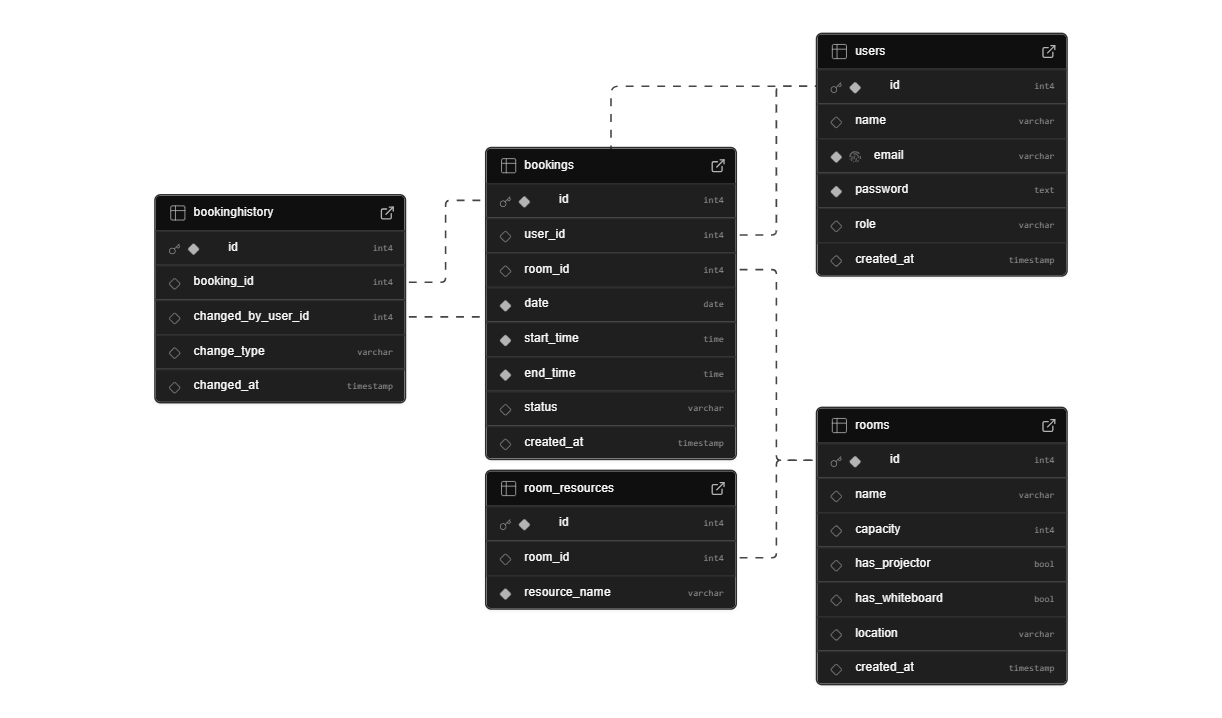
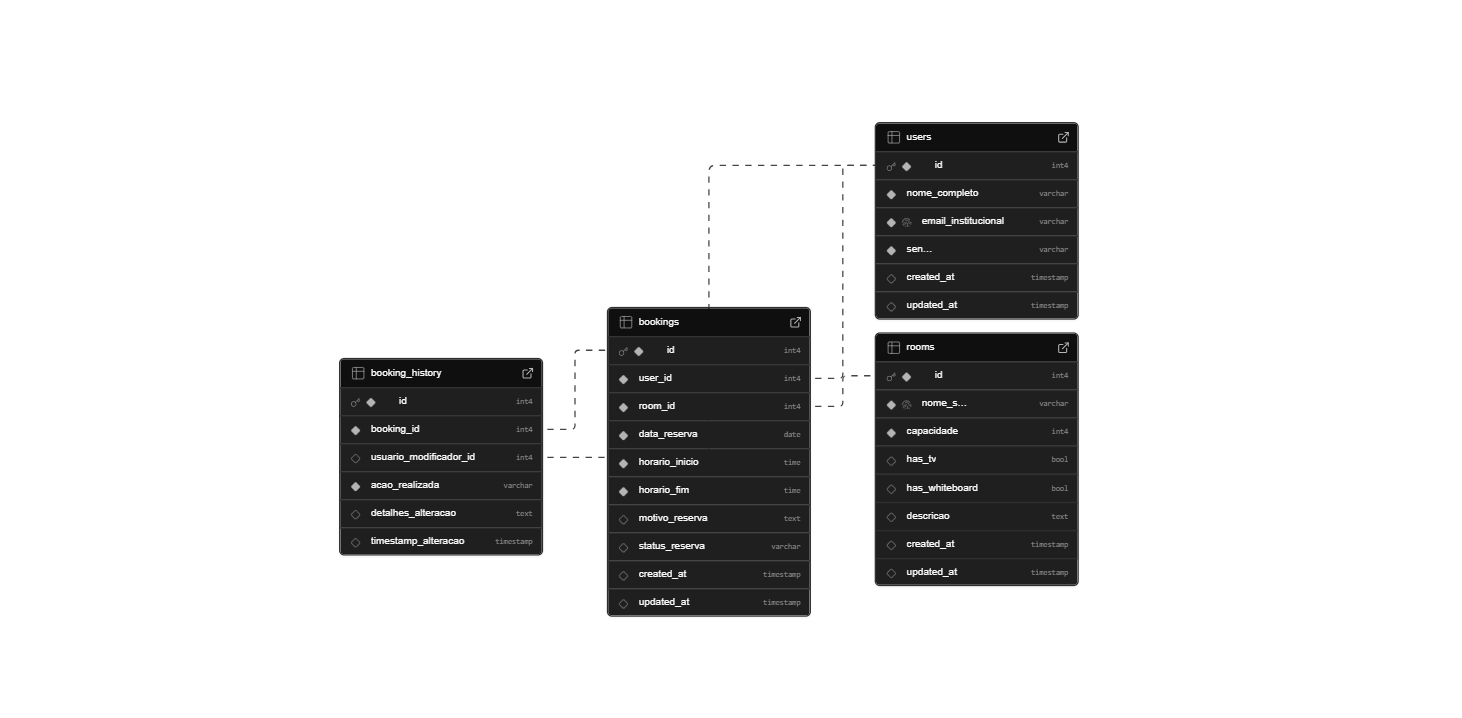
add banco de dados

diff --git a/WAD.md b/WAD.md
@@ -82,88 +82,127 @@ A User Story é suficientemente pequena para ser entregue em um único ciclo de 
 
 ### 3.1. Modelagem do banco de dados:
 
-&nbsp;&nbsp;&nbsp;&nbsp;O sistema de reservas foi modelado considerando os principais atores (usuários) e as funcionalidades centrais (reserva de salas com recursos). A modelagem contempla 5 entidades principais:
+&nbsp;&nbsp;&nbsp;&nbsp; O sistema de reservas de salas foi modelado para atender às necessidades operacionais e acadêmicas da comunidade do INTELI. A modelagem considera três atores principais: os usuários (que realizam reservas), as salas (disponíveis com recursos variados) e o histórico de alterações (para rastreabilidade). O foco do projeto é garantir integridade, rastreabilidade e evitar conflitos de horário entre as reservas.
 
-- Users (Usuários que interagem com o sistema);
+O modelo contempla quatro entidades principais:
 
-- Rooms (Salas disponíveis para reserva);
+- Users (Usuários que realizam e alteram reservas);
 
-- Bookings (Reservas realizadas);
+- Rooms (Salas disponíveis para uso, com descrição e recursos embutidos por atributos booleanos);
 
-- Room_Resources (Recursos adicionais presentes nas salas);
+- Bookings (Reservas realizadas com data, horário, motivo e status da reserva);
 
-- BookingHistory (Histórico de alterações das reservas - opcional para escalabilidade).
+- Booking_History (Histórico de alterações em reservas, incluindo o usuário que modificou, ação e data).
 
 **Modelo Lógico (Relacional):**
 
 &nbsp;&nbsp;&nbsp;&nbsp;As relações entre as entidades estão representadas da seguinte forma:
 
 ``` text
-[Users] -----< [Bookings] >----- [Rooms] -----< [Room_Resources]
-                       |
-               [BookingHistory]
-
+[Users] -----< [Bookings] >----- [Rooms]
+      \             |
+       \            v
+        --> [Booking_History]
 ```
+
 
 - Um usuário pode fazer várias reservas;
 
-- Uma sala pode ter várias reservas e múltiplos recursos;
+- Uma sala pode ser reservada por vários usuários, em diferentes datas e horários;
 
-- Cada reserva pode ter alterações registradas no histórico.
+- Cada reserva pode registrar alterações realizadas por outros usuários (ex: administradores ou responsáveis), garantindo rastreabilidade no histórico;
+
+- Os atributos booleanos das salas substituem a necessidade de uma tabela separada de recursos, simplificando a modelagem.
+
+&nbsp;&nbsp;&nbsp;&nbsp;A integridade referencial é garantida com o uso de chaves estrangeiras (FK) conectando usuários, salas e reservas. Além disso, foram criadas constraints de exclusividade e verificação para evitar reservas simultâneas e horários inválidos, além de triggers para atualização automática de timestamps.
 
 **Modelo Físico (DDL - Script SQL):**
 
-&nbsp;&nbsp;&nbsp;&nbsp;Abaixo está o schema completo do banco de dados, pronto para ser executado no Supabase ou em qualquer banco PostgreSQL:
+&nbsp;&nbsp;&nbsp;&nbsp;Abaixo está o esquema completo do banco de dados, pronto para ser executado no Supabase ou em qualquer banco PostgreSQL:
 
 ``` sql
--- 1. Tabela de Usuários
-CREATE TABLE Users (
-    id SERIAL PRIMARY KEY,
-    name VARCHAR(100),
-    email VARCHAR(100) UNIQUE NOT NULL,
-    password TEXT NOT NULL, -- Armazenar preferencialmente como hash
-    role VARCHAR(20) DEFAULT 'student',
-    created_at TIMESTAMP DEFAULT CURRENT_TIMESTAMP
+-- 1. TABELA: users
+CREATE TABLE IF NOT EXISTS users (
+    id SERIAL PRIMARY KEY, -- PK
+    nome_completo VARCHAR(255) NOT NULL,
+    email_institucional VARCHAR(255) NOT NULL UNIQUE,
+    senha VARCHAR(255) NOT NULL,
+    created_at TIMESTAMP DEFAULT CURRENT_TIMESTAMP,
+    updated_at TIMESTAMP DEFAULT CURRENT_TIMESTAMP
 );
 
--- 2. Tabela de Salas
-CREATE TABLE Rooms (
-    id SERIAL PRIMARY KEY,
-    name VARCHAR(50),
-    capacity INTEGER,
-    has_projector BOOLEAN DEFAULT false,
-    has_whiteboard BOOLEAN DEFAULT false,
-    location VARCHAR(100),
-    created_at TIMESTAMP DEFAULT CURRENT_TIMESTAMP
+-- 2. TABELA: rooms
+CREATE TABLE IF NOT EXISTS rooms (
+    id SERIAL PRIMARY KEY, -- PK
+    nome_sala VARCHAR(100) NOT NULL UNIQUE,
+    capacidade INTEGER NOT NULL CHECK (capacidade > 0),
+    has_tv BOOLEAN DEFAULT FALSE,
+    has_whiteboard BOOLEAN DEFAULT FALSE,
+    descricao TEXT,
+    created_at TIMESTAMP DEFAULT CURRENT_TIMESTAMP,
+    updated_at TIMESTAMP DEFAULT CURRENT_TIMESTAMP
 );
 
--- 3. Tabela de Reservas
-CREATE TABLE Bookings (
-    id SERIAL PRIMARY KEY,
-    user_id INTEGER REFERENCES Users(id) ON DELETE CASCADE,
-    room_id INTEGER REFERENCES Rooms(id) ON DELETE CASCADE,
-    date DATE NOT NULL,
-    start_time TIME NOT NULL,
-    end_time TIME NOT NULL,
-    status VARCHAR(20) DEFAULT 'ativa',
-    created_at TIMESTAMP DEFAULT CURRENT_TIMESTAMP
+-- 3. TABELA: bookings
+CREATE TABLE IF NOT EXISTS bookings (
+    id SERIAL PRIMARY KEY, -- PK
+    user_id INTEGER NOT NULL, -- FK → users(id)
+    room_id INTEGER NOT NULL, -- FK → rooms(id)
+    data_reserva DATE NOT NULL,
+    horario_inicio TIME NOT NULL,
+    horario_fim TIME NOT NULL,
+    motivo_reserva TEXT,
+    status_reserva VARCHAR(50) DEFAULT 'confirmada' CHECK (
+        status_reserva IN ('confirmada', 'cancelada', 'concluida', 'pendente')
+    ),
+    created_at TIMESTAMP DEFAULT CURRENT_TIMESTAMP,
+    updated_at TIMESTAMP DEFAULT CURRENT_TIMESTAMP,
+    CONSTRAINT fk_user_booking FOREIGN KEY (user_id) REFERENCES users(id) ON DELETE CASCADE,
+    CONSTRAINT fk_room_booking FOREIGN KEY (room_id) REFERENCES rooms(id) ON DELETE CASCADE,
+    CONSTRAINT chk_horario_fim_maior_inicio CHECK (horario_fim > horario_inicio),
+    CONSTRAINT unique_user_active_booking_per_day EXCLUDE (
+        user_id WITH =, data_reserva WITH =
+    ) WHERE (status_reserva IN ('confirmada', 'pendente'))
 );
 
--- 4. Tabela de Recursos Complementares das Salas
-CREATE TABLE Room_Resources (
-    id SERIAL PRIMARY KEY,
-    room_id INTEGER REFERENCES Rooms(id) ON DELETE CASCADE,
-    resource_name VARCHAR(100) NOT NULL
+-- 4. TABELA: booking_history
+CREATE TABLE IF NOT EXISTS booking_history (
+    id SERIAL PRIMARY KEY, -- PK
+    booking_id INTEGER NOT NULL, -- FK → bookings(id)
+    usuario_modificador_id INTEGER, -- FK → users(id)
+    acao_realizada VARCHAR(255) NOT NULL,
+    detalhes_alteracao TEXT,
+    timestamp_alteracao TIMESTAMP DEFAULT CURRENT_TIMESTAMP,
+    CONSTRAINT fk_booking_history FOREIGN KEY (booking_id) REFERENCES bookings(id) ON DELETE CASCADE,
+    CONSTRAINT fk_modificador FOREIGN KEY (usuario_modificador_id) REFERENCES users(id)
 );
 
--- 5. Tabela de Histórico de Reservas (opcional e escalável)
-CREATE TABLE BookingHistory (
-    id SERIAL PRIMARY KEY,
-    booking_id INTEGER REFERENCES Bookings(id) ON DELETE CASCADE,
-    changed_by_user_id INTEGER REFERENCES Users(id) ON DELETE SET NULL,
-    change_type VARCHAR(50),
-    changed_at TIMESTAMP DEFAULT CURRENT_TIMESTAMP
-);
+-- 5. ÍNDICES (Para Desempenho)
+CREATE INDEX IF NOT EXISTS idx_bookings_user_id ON bookings(user_id);
+CREATE INDEX IF NOT EXISTS idx_bookings_room_id ON bookings(room_id);
+CREATE INDEX IF NOT EXISTS idx_bookings_data_reserva ON bookings(data_reserva);
+CREATE INDEX IF NOT EXISTS idx_booking_history_booking_id ON booking_history(booking_id);
+
+-- 6. Função e triggers para updated_at automático
+CREATE OR REPLACE FUNCTION update_updated_at_column()
+RETURNS TRIGGER AS $$
+BEGIN
+   NEW.updated_at = NOW();
+   RETURN NEW;
+END;
+$$ language 'plpgsql';
+
+CREATE TRIGGER trg_users_updated_at
+BEFORE UPDATE ON users
+FOR EACH ROW EXECUTE PROCEDURE update_updated_at_column();
+
+CREATE TRIGGER trg_rooms_updated_at
+BEFORE UPDATE ON rooms
+FOR EACH ROW EXECUTE PROCEDURE update_updated_at_column();
+
+CREATE TRIGGER trg_bookings_updated_at
+BEFORE UPDATE ON bookings
+FOR EACH ROW EXECUTE PROCEDURE update_updated_at_column();
 ```
 
 **Diagrama Relacional (ERD):**
